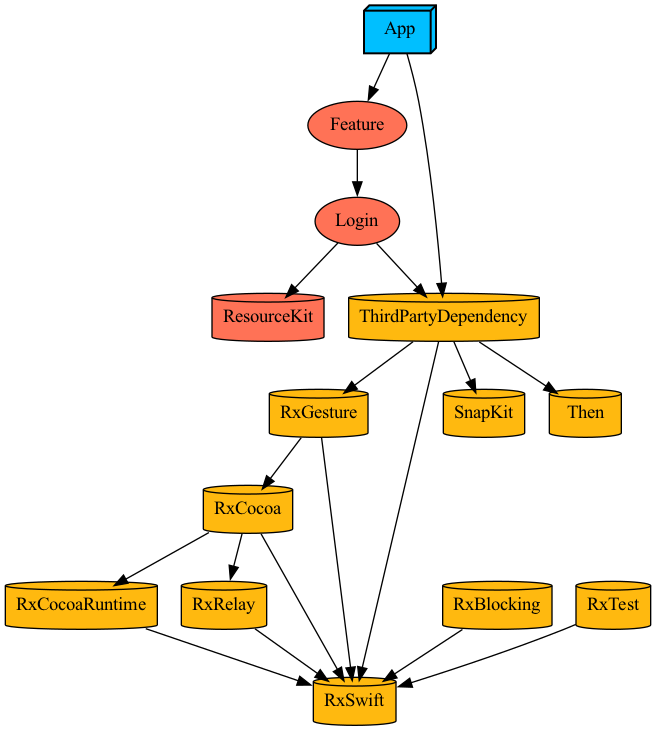
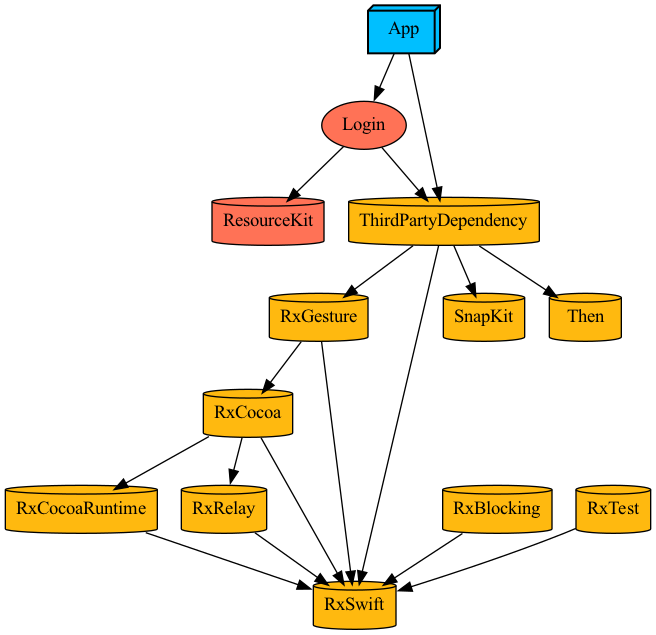
[SETTING] AppTarget에서 바로 LoginTarget 의존할 수 있도록 변경
[변경사항]
변경 전: `App` -> `Feature` -> `Login`
변경 후: `App` -> `Login`

Changed region(s): [[0.0, 0.0, 1.0, 1.0], [0.4573, 0.8079, 0.4878, 0.8677]]

diff --git a/Plugins/FeaturePlugin/ProjectDescriptionHelpers/Feature+Project.swift b/Plugins/FeaturePlugin/ProjectDescriptionHelpers/Feature+Project.swift
@@ -14,19 +14,6 @@ extension TargetDependency {
   }
 }
 
-public extension TargetDependency.Feature {
-  static let folderName: String = "Feature"
-  
-  static func project(name: String) -> TargetDependency {
-    return .project(
-      target: "\(name)",
-      path: .relativeToRoot("\(folderName)")
-    )
-  }
-  
-  static let Main = project(name: "Feature")
-}
-
 public extension TargetDependency.Feature.Login {
   static let folderName: String = "Login"
   

diff --git a/GuestHouse/Project.swift b/GuestHouse/Project.swift
@@ -62,7 +62,7 @@ private let appTarget: Target = Target(
   dependencies: [
     .ThirdParty.Main,
 
-    .Feature.Main
+      .Feature.Login.Main
   ],
   settings: settings
 )
